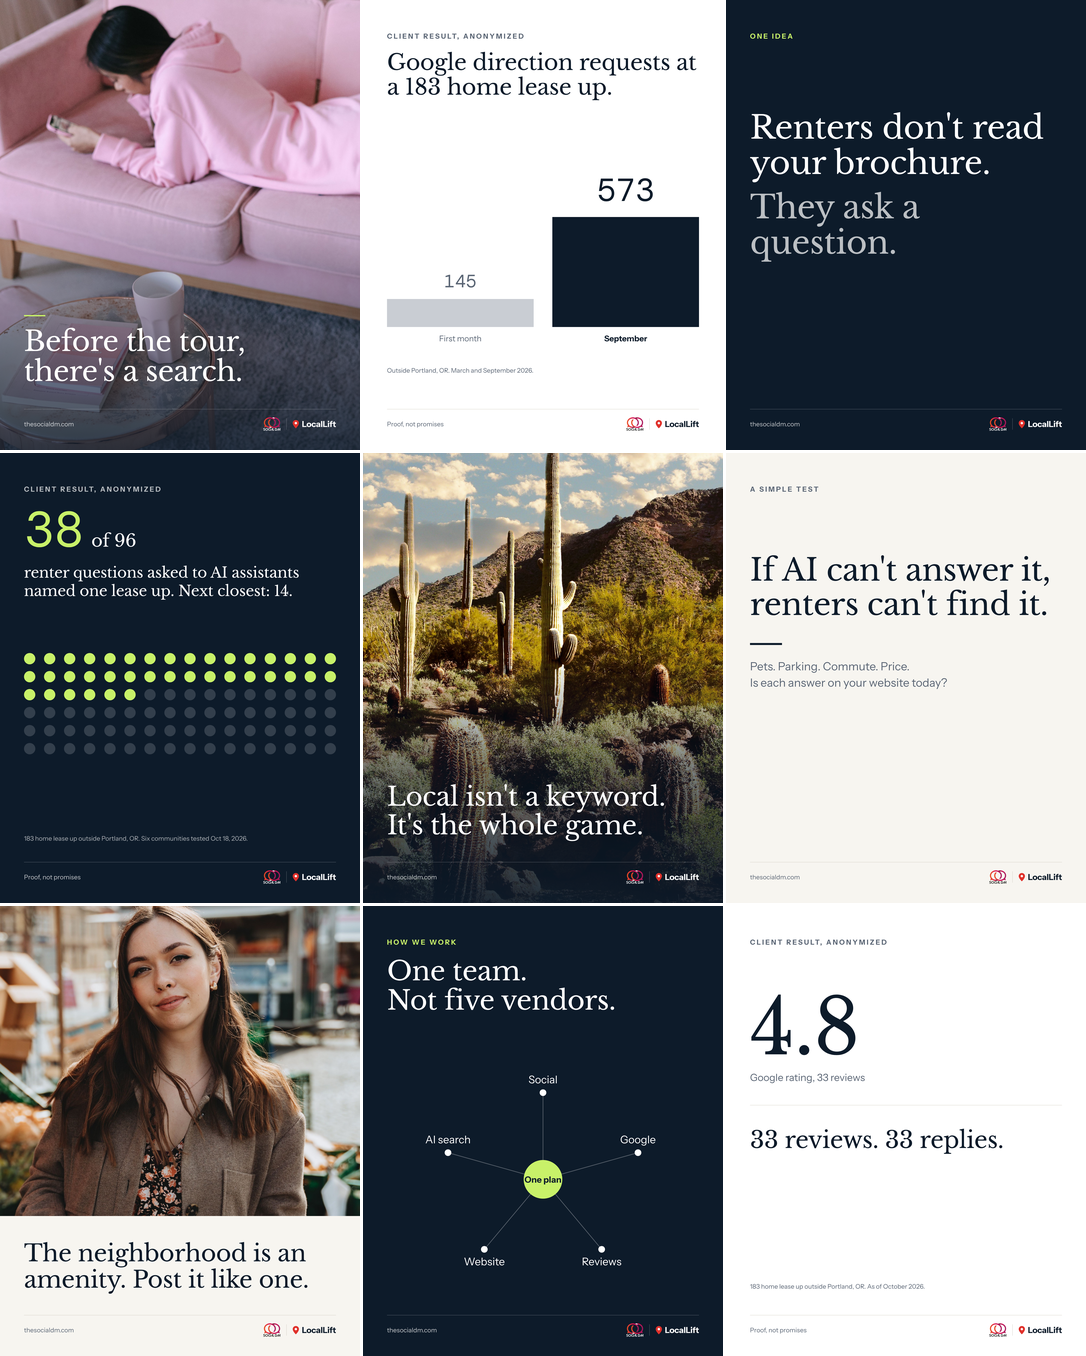
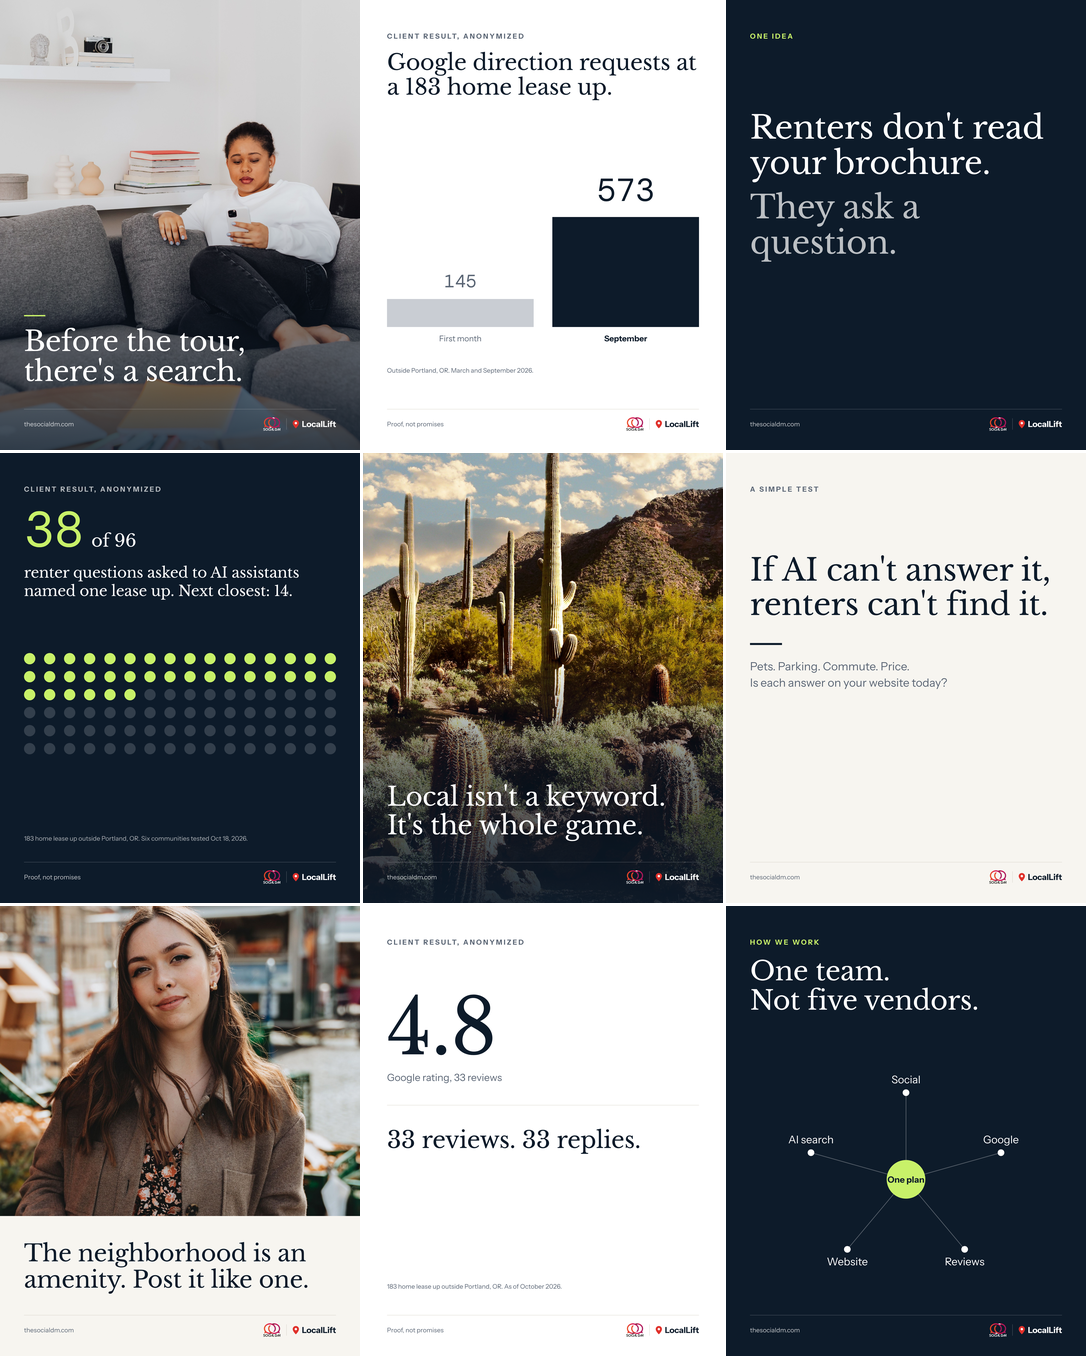
Mix sample: sharp phone photo, grid order fix
Claude-Session: https://claude.ai/code/session_01APSB1jK8qoXw95SiRRn3ox

diff --git a/social/socialdm-instagram/2026-11-mix-sample/src/t1-photo-home.html b/social/socialdm-instagram/2026-11-mix-sample/src/t1-photo-home.html
@@ -17,7 +17,7 @@ body{width:1080px;height:1350px;overflow:hidden;position:relative;font-family:IS
 .ll svg{width:19px;height:25px}
 .photo{position:absolute;inset:0;background-size:cover;background-position:center}
 </style></head><body>
-<div class="photo" style="background-image:url(p-phone.jpg);background-position:22% center"></div>
+<div class="photo" style="background-image:url(p-phone.jpg);background-position:64% center"></div>
 <div style="position:absolute;inset:0;background:linear-gradient(180deg,rgba(13,27,42,0) 45%,rgba(13,27,42,.82) 100%)"></div>
 <div style="position:absolute;left:72px;right:72px;bottom:190px;color:#fff">
  <div style="width:64px;height:4px;background:var(--lime);margin-bottom:30px"></div>

diff --git a/social/socialdm-instagram/2026-11-mix-sample/src/gen.py b/social/socialdm-instagram/2026-11-mix-sample/src/gen.py
@@ -46,7 +46,7 @@ T = {}
 
 # 1 PHOTO: couple at home, short line, photo carries it
 T['t1-photo-home'] = page(f"""
-<div class="photo" style="background-image:url(p-phone.jpg);background-position:22% center"></div>
+<div class="photo" style="background-image:url(p-phone.jpg);background-position:64% center"></div>
 <div style="position:absolute;inset:0;background:linear-gradient(180deg,rgba(13,27,42,0) 45%,rgba(13,27,42,.82) 100%)"></div>
 <div style="position:absolute;left:72px;right:72px;bottom:190px;color:#fff">
  <div style="width:64px;height:4px;background:var(--lime);margin-bottom:30px"></div>
@@ -157,7 +157,7 @@ T['t9-proof-reviews'] = page(f"""
 <div style="position:absolute;left:72px;right:72px;top:1130px;font-size:19px;color:var(--mute)">183 home lease up outside Portland, OR. As of October 2026.</div>
 {foot(False,'Proof, not promises')}""")
 
-ORDER = ['t1-photo-home','t2-proof-directions','t3-insight-question','t4-proof-ai','t5-photo-desert','t6-insight-ai','t8-photo-market','t7-insight-oneteam','t9-proof-reviews']
+ORDER = ['t1-photo-home','t2-proof-directions','t3-insight-question','t4-proof-ai','t5-photo-desert','t6-insight-ai','t8-photo-market','t9-proof-reviews','t7-insight-oneteam']
 
 async def main():
     for k,v in T.items(): (HERE/f'{k}.html').write_text(v)
